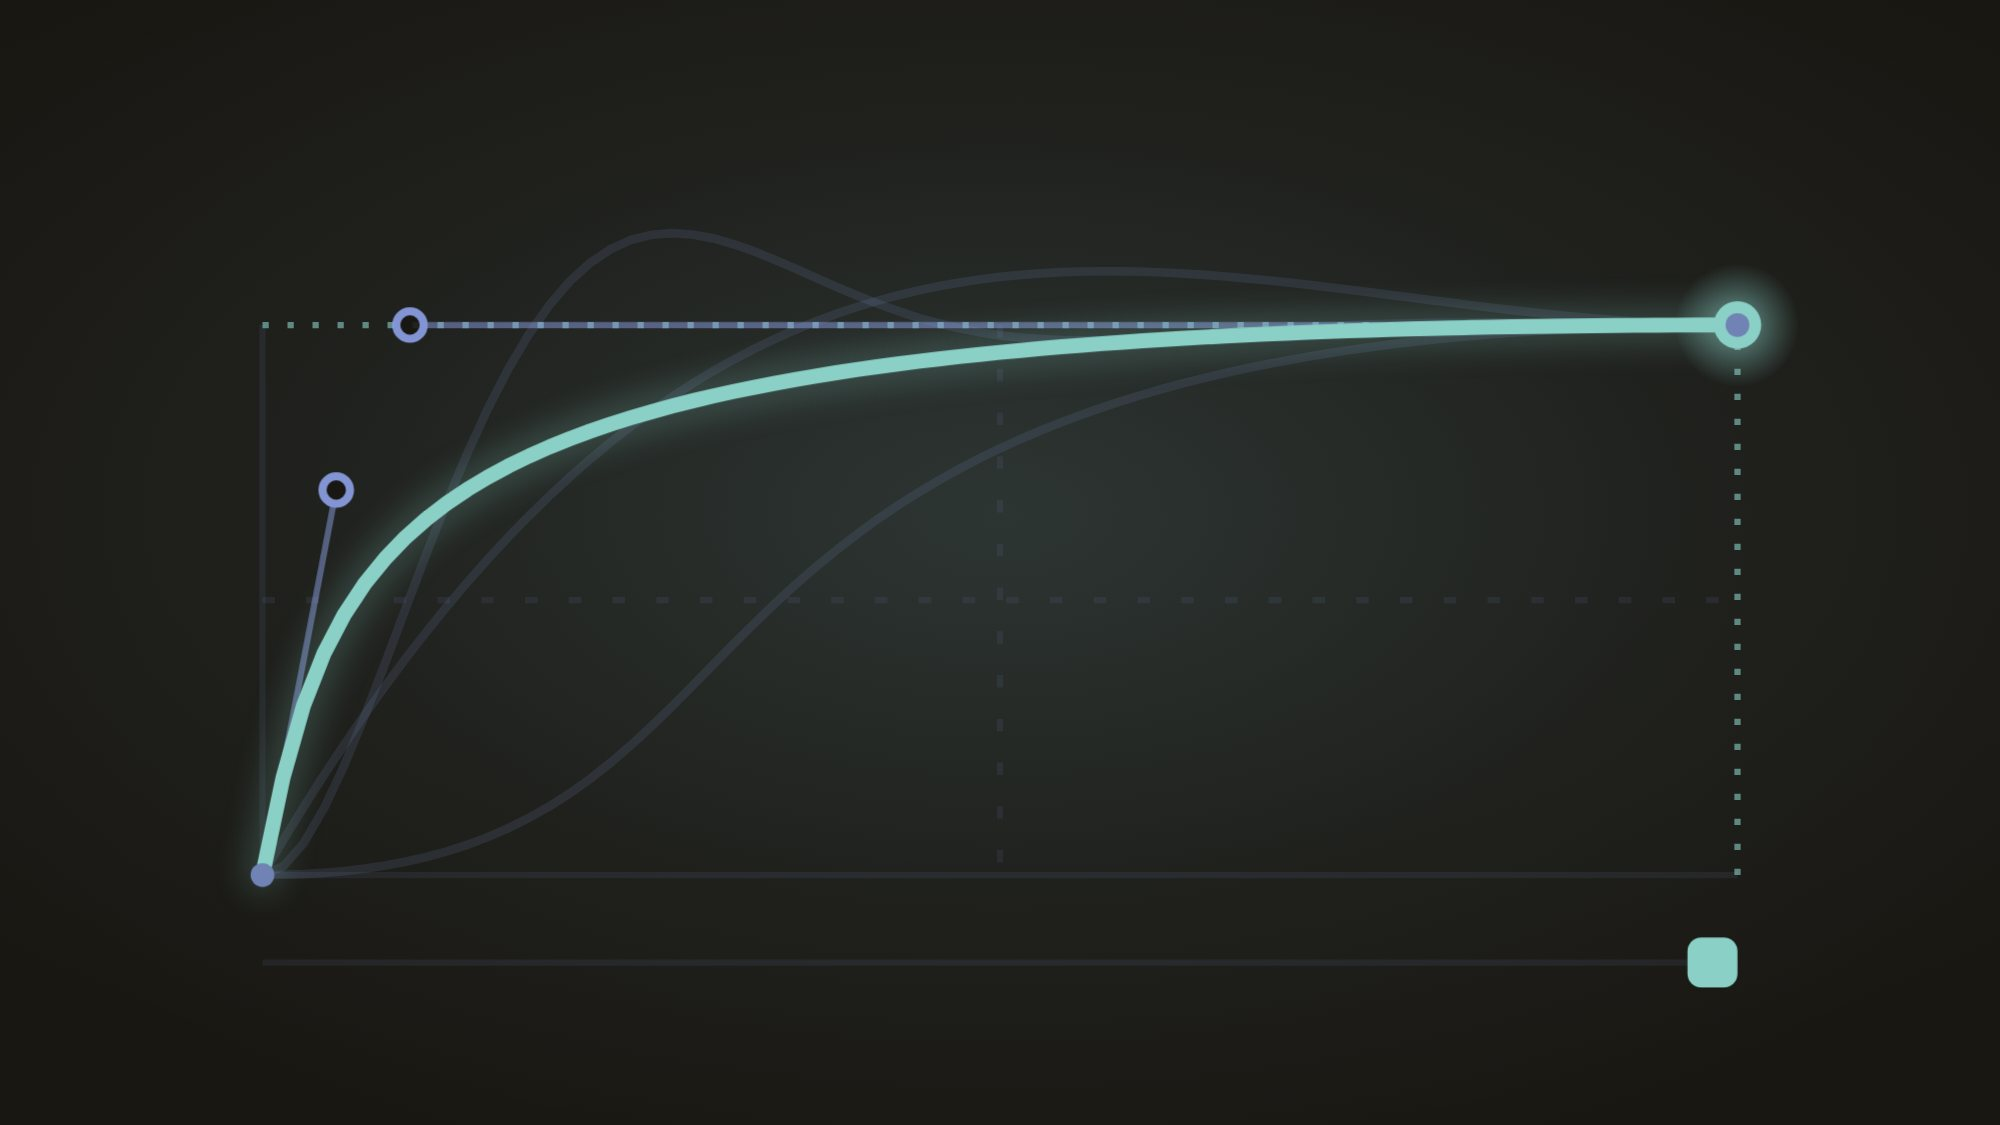
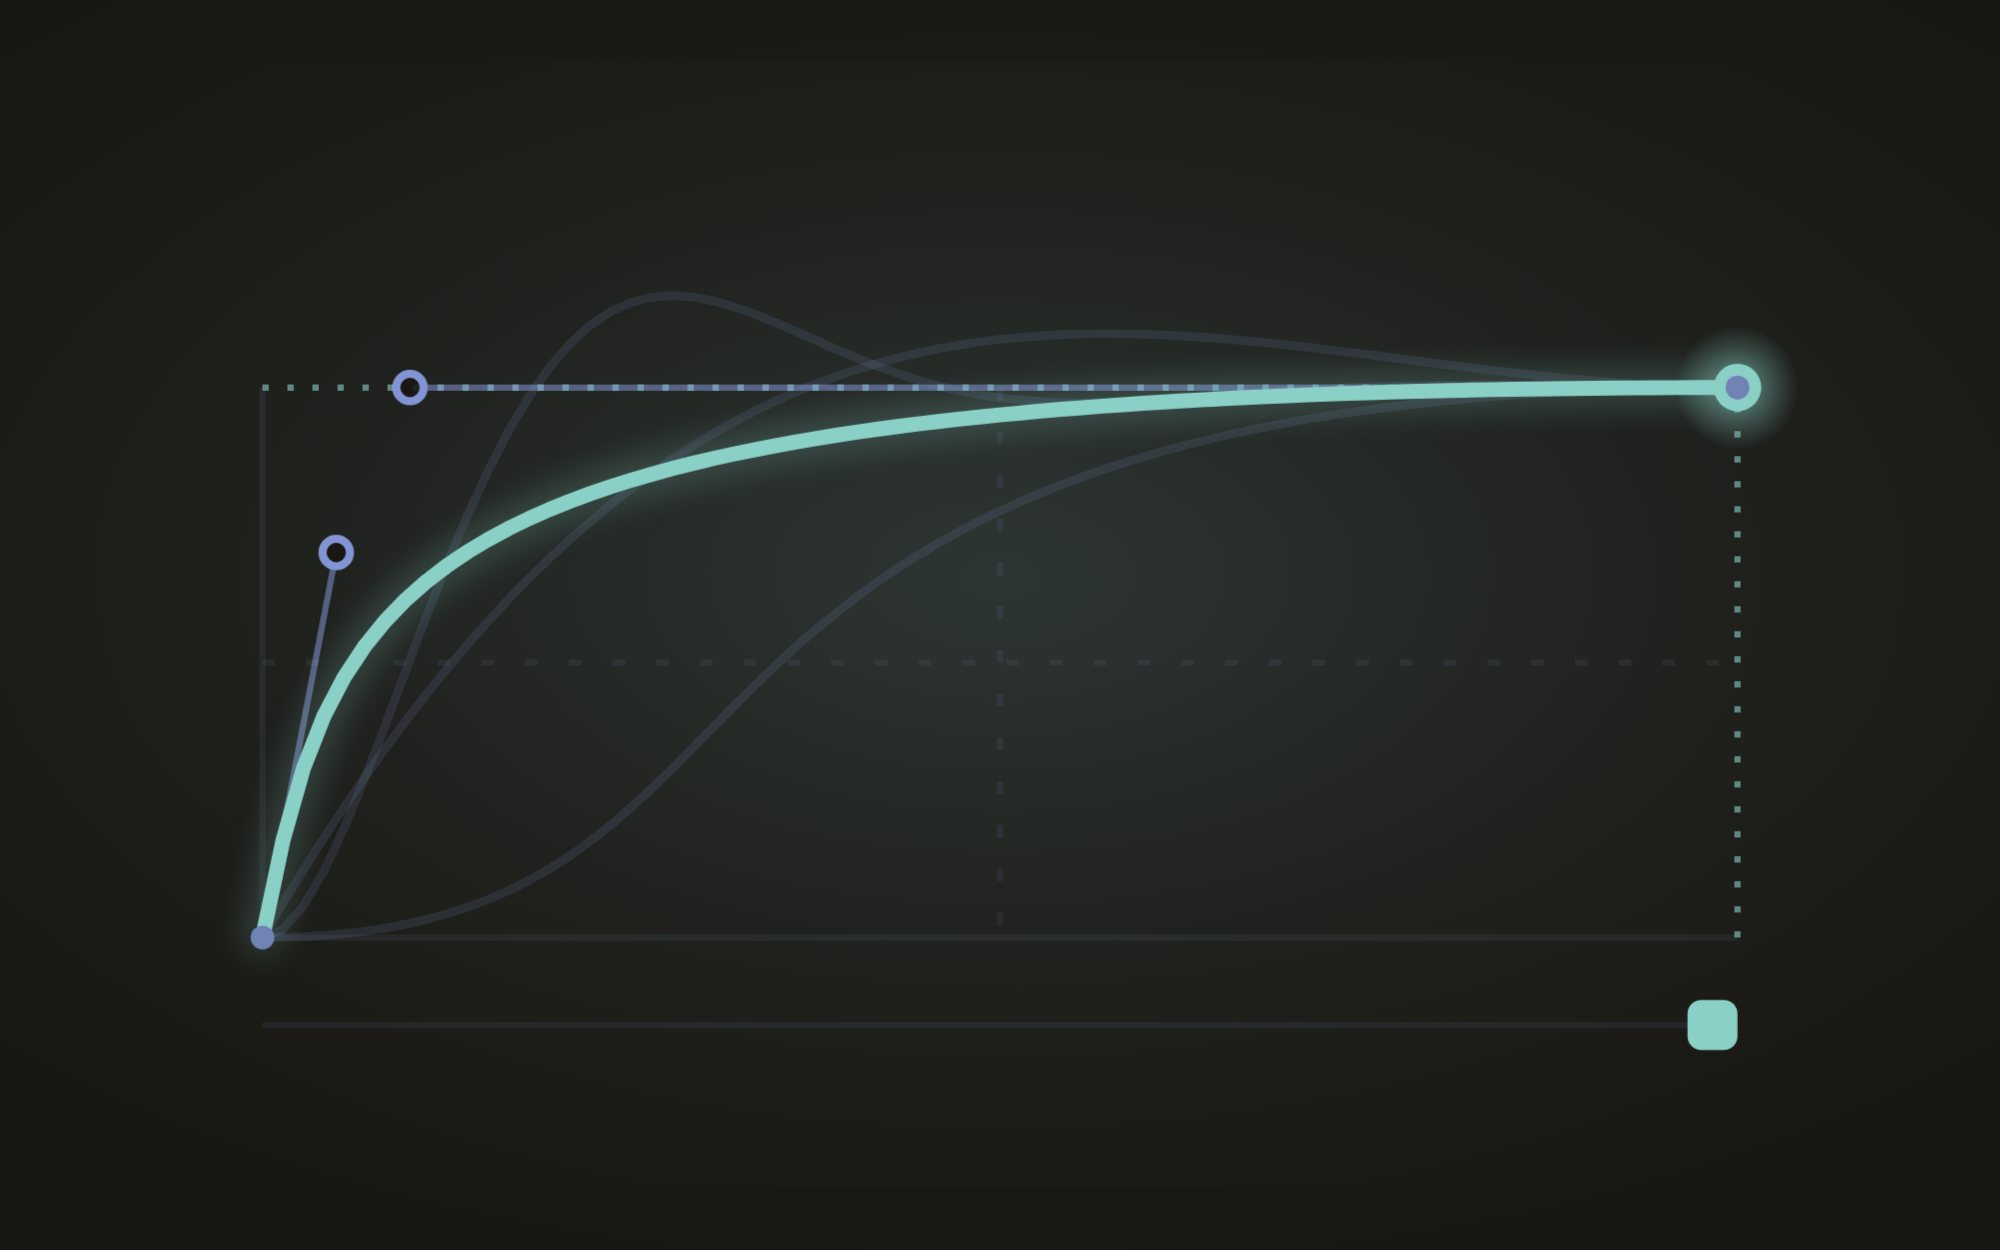
Widen the Cadence hero to 16:10 for more vertical breathing room
At 16:9 the plot and the token-chip caption sat tight against the top
and bottom edges. Move the whole embed to 16:10 (taller): the animation
keeps preserveAspectRatio="meet", so the composition centres with even
margin top and bottom.

Applied consistently so the iframe ratio matches the animation's inner
frame everywhere it renders: static/cadence-hero.html (.frame), the body
hero (shortcode ratio), the summary card (headerimage), and the lightbox
(lightbox.css). Re-captured the OG poster at 16:10 to match.

Claude-Session: https://claude.ai/code/session_0134Emq2yiQp9AZ5VFTm3KpY

diff --git a/assets/css/components/summary-card.css b/assets/css/components/summary-card.css
@@ -127,10 +127,10 @@
   height: auto;
 }
 
-/* Live hero-embed cards keep their own 16:9 ratio wherever they render: the
-   fixed 4/3 cover thumb the index layout uses for photos (below, >=48em) would
-   letterbox the animation, so opt these cards out and let the iframe drive the
-   height. */
+/* Live hero-embed cards keep their own aspect ratio (16:10) wherever they
+   render: the fixed 4/3 cover thumb the index layout uses for photos (below,
+   >=48em) would letterbox the animation, so opt these cards out and let the
+   iframe drive the height. */
 .summary-card__image .hero-embed-card,
 .summary-card__image .hero-embed-card .hero-embed__frame {
   display: block;

diff --git a/assets/css/components/lightbox.css b/assets/css/components/lightbox.css
@@ -37,10 +37,10 @@ html.lightbox-open {
    carries .hero-embed__frame so the grayscale / tri-tone filter applies too —
    the enlarged view stays consistent with the in-page hero and the palette. */
 .lightbox__embed-wrap {
-  width: min(90vw, calc(90vh * 16 / 9));
+  width: min(90vw, calc(90vh * 16 / 10));
   max-width: 90vw;
   max-height: 90vh;
-  aspect-ratio: 16 / 9;
+  aspect-ratio: 16 / 10;
   cursor: default;
 }
 

diff --git a/static/cadence-hero.html b/static/cadence-hero.html
@@ -65,8 +65,8 @@
   /* the "video": a fixed 16:9 frame that scales uniformly, never reflows */
   .frame{
     position:relative;
-    aspect-ratio:16 / 9;
-    width:min(100%, calc(100svh * 16 / 9));
+    aspect-ratio:16 / 10;
+    width:min(100%, calc(100svh * 16 / 10));
     background:
       radial-gradient(120% 100% at 50% 44%,var(--vignette),transparent 60%),
       var(--bg);

diff --git a/layouts/partials/headerimage.html b/layouts/partials/headerimage.html
@@ -24,7 +24,7 @@
       scrolling="no"
       tabindex="-1"
       aria-hidden="true"
-      style="width:100%;aspect-ratio:16/9;border:0;display:block;pointer-events:none"
+      style="width:100%;aspect-ratio:16/10;border:0;display:block;pointer-events:none"
     ></iframe>
   </div>
 {{ else }}

diff --git a/content/swedish/works/cadence/index.md b/content/swedish/works/cadence/index.md
@@ -24,4 +24,4 @@ client:
   about: "Ett designverktyg för rörelsesystem som utforskar rörelse som lager av design-tokens – primitiver och semantiska intents."
 ---
 
-{{< hero-embed src="/cadence-hero.html#label" title="Cadence – ett rörelsesystem: fyra semantiska intents som en solfjäder av easing-kurvor, var och en märkt med sina intent-, kompositions- och varaktighetstokens" >}}
+{{< hero-embed src="/cadence-hero.html#label" ratio="16 / 10" title="Cadence – ett rörelsesystem: fyra semantiska intents som en solfjäder av easing-kurvor, var och en märkt med sina intent-, kompositions- och varaktighetstokens" >}}

diff --git a/content/english/works/cadence/index.md b/content/english/works/cadence/index.md
@@ -24,4 +24,4 @@ client:
   about: "A motion-system design tool exploring motion as layered design tokens — primitives and semantic intents."
 ---
 
-{{< hero-embed src="/cadence-hero.html#label" title="Cadence — a motion system, wordlessly: four semantic intents drawn as a fan of easing curves, each labelled with its intent, composition and duration tokens" >}}
+{{< hero-embed src="/cadence-hero.html#label" ratio="16 / 10" title="Cadence — a motion system, wordlessly: four semantic intents drawn as a fan of easing curves, each labelled with its intent, composition and duration tokens" >}}
